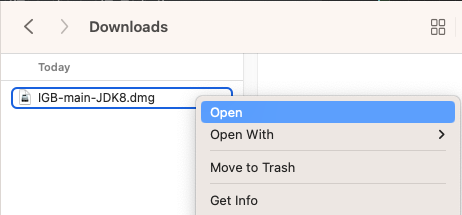
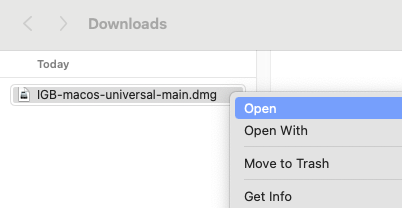
IGBF-4260: Update early access IGB instructions for mac

diff --git a/htdocs/earlyAccessDownload.html b/htdocs/earlyAccessDownload.html
@@ -116,18 +116,27 @@
                 <img class="image-scale" src="images/earlyAccess/earlyAccess_openInstaller.png" alt="Right-click IGB installer">
               </p>
               <p><br>
-                <li>Click <strong>OK</strong> if a popup appears saying IGB can't be opened.</li><br>
-                <img class="image-scale" src="images/earlyAccess/earlyAccess_warning.png" alt="Right-click IGB installer">
+                <li>Click <strong>Done</strong> if a popup appears saying the IGB installer was not opened.</li><br>
+                <img class="image-scale" src="images/earlyAccess/earlyAccess_warning.png" alt="Click Done">
               </p>
               <p><br>
-                <li><strong>Right-click</strong> on the IGB icon again and select <strong>Open</strong>.</li><br>
-                <img class="image-scale" src="images/earlyAccess/earlyAccess_openInstaller.png" alt="Right-click IGB installer">
+                <li>Navigate to the <strong>System Settings</strong> on your Mac.</li><br>
+                <img class="image-scale" src="images/earlyAccess/system_settings.png" alt="Open Mac System Settings">
               </p>
               <p><br>
-                <li>Click the <strong>Open</strong> button. The IGB installer should start.</li><br>
-                <img class="image-scale" src="images/earlyAccess/earlyAccess_startInstaller.png" alt="Click on Open button">
+                <li>Select the <strong>Privacy & Security</strong> tab, scroll down, then click <strong>Open Anyway</strong>.</li><br>
+                <img class="image-scale" src="images/earlyAccess/privacy_and_security.png" alt="Click Open Anyway under Privacy and Security">
               </p>
-              <li>Follow the installer instructions from here.</li>
+              <p><br>
+                <li>Click <strong>Open Anyway</strong> in the window that opens.</li><br>
+                <img class="image-scale" src="images/earlyAccess/open_anyway.png" alt="Click Open Anyway">
+              </p>
+              <p><br>
+                <li>Use your password or Touch ID to proceed.</li><br>
+                <img class="image-scale" src="images/earlyAccess/use_password.png" alt="Enter password">
+              </p><br>
+              <li>Follow the installer instructions.</li><br>
+              <img class="image-scale" src="images/earlyAccess/installer.png" alt="Follow installer instructions">
             </ol>
           </div>
         </div>
